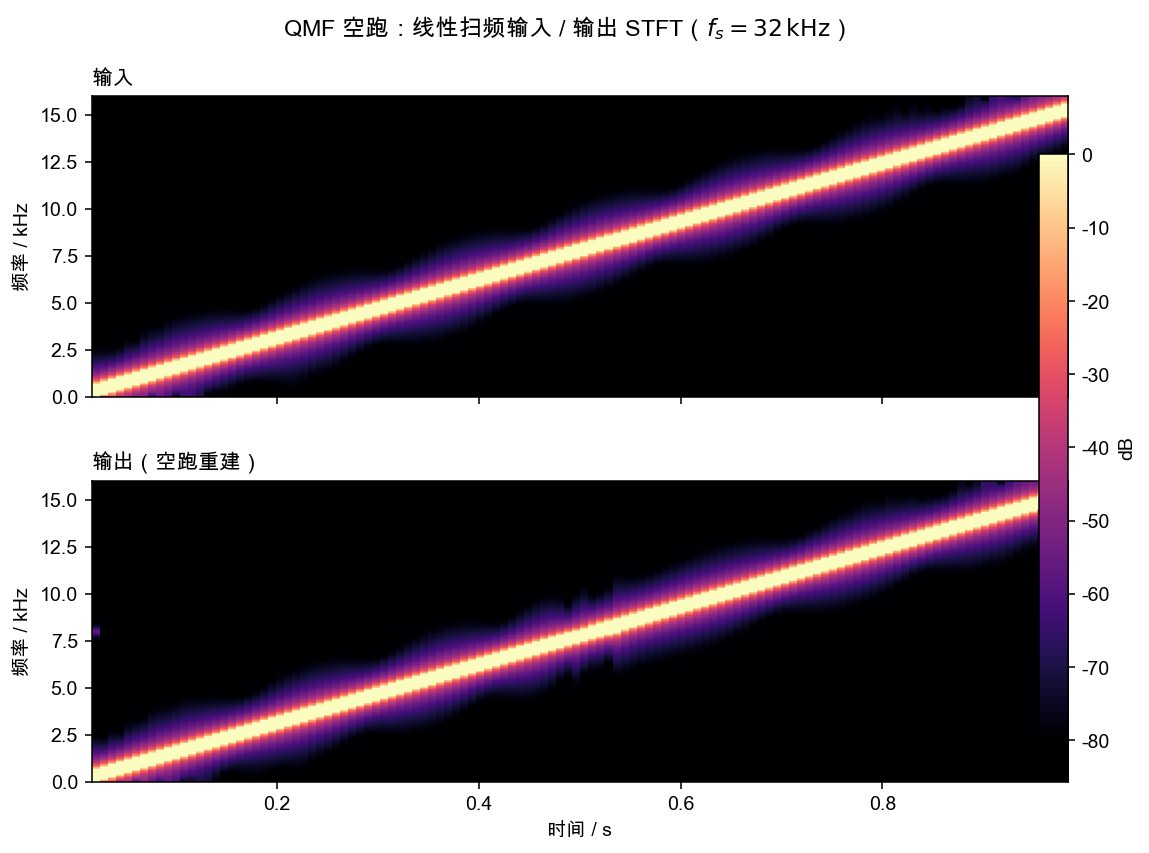
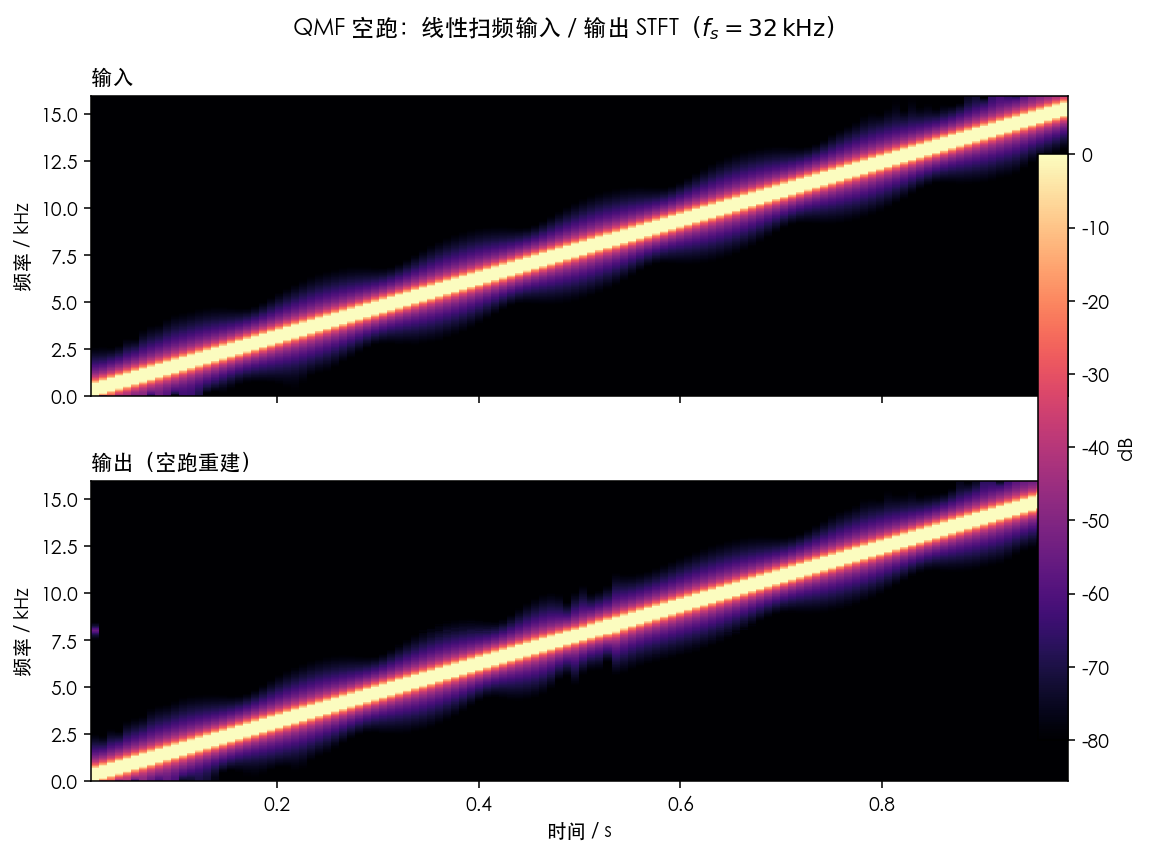
feat(qmf): update qmf doc and sim script

diff --git a/sim/qmf/plot_chirp_stft.py b/sim/qmf/plot_chirp_stft.py
@@ -1,7 +1,8 @@
 #!/usr/bin/env python3
-"""STFT of the linear-chirp empty run written by qmf_chirp."""
+"""Build qmf_chirp, run the linear-chirp empty reconstruction, plot the STFT."""
 
 import argparse
+import subprocess
 from pathlib import Path
 
 import matplotlib
@@ -34,23 +35,39 @@ def stft_db(x: np.ndarray) -> tuple[np.ndarray, np.ndarray, np.ndarray]:
     return spec_db, freqs, times
 
 
+def build_and_run(root: Path, out_dir: Path) -> None:
+    build_dir = root / "output" / "qmf"
+    subprocess.check_call(
+        [
+            "cmake",
+            "-S",
+            str(root),
+            "-B",
+            str(build_dir),
+            "-DCMAKE_BUILD_TYPE=Release",
+        ]
+    )
+    subprocess.check_call(
+        ["cmake", "--build", str(build_dir), "--target", "qmf_chirp"]
+    )
+    out_dir.mkdir(parents=True, exist_ok=True)
+    subprocess.check_call([str(build_dir / "qmf_chirp"), str(out_dir)])
+
+
 def main() -> None:
     root = Path(__file__).resolve().parents[2]
     parser = argparse.ArgumentParser()
-    parser.add_argument(
-        "--in-dir",
-        type=Path,
-        default=root / "output" / "sim" / "qmf",
-    )
     parser.add_argument(
         "--out",
         type=Path,
         default=root / "doc" / "image" / "qmf_fig_chirp_stft.png",
     )
     args = parser.parse_args()
+    in_dir = root / "output" / "sim" / "qmf"
+    build_and_run(root, in_dir)
 
-    x = np.fromfile(args.in_dir / "in.f32", dtype=np.float32).astype(np.float64)
-    y = np.fromfile(args.in_dir / "out.f32", dtype=np.float32).astype(np.float64)
+    x = np.fromfile(in_dir / "in.f32", dtype=np.float32).astype(np.float64)
+    y = np.fromfile(in_dir / "out.f32", dtype=np.float32).astype(np.float64)
     if x.shape != y.shape or len(x) < N_FFT:
         raise SystemExit(f"bad lengths in={len(x)} out={len(y)}")
 
@@ -83,7 +100,7 @@ def main() -> None:
     fig.subplots_adjust(hspace=0.28, right=0.90, top=0.90)
     args.out.parent.mkdir(parents=True, exist_ok=True)
     fig.savefig(args.out, dpi=140, bbox_inches="tight")
-    copy = args.in_dir / "chirp_stft.png"
+    copy = in_dir / "chirp_stft.png"
     fig.savefig(copy, dpi=140, bbox_inches="tight")
     print("saved", args.out)
     print("saved", copy)

diff --git a/doc/webrtc_3a.md b/doc/webrtc_3a.md
@@ -1,28 +1,12 @@
 # <div align="center">webrtc_3a.md</div>
 
-之前自以为掌握了 webrtc 的 aec，ns 算法便掌握了语音前端的精髓，但实际上还远远不够，算法工程师应该要掌握整个音频链路，因此在此处重新整理整个链路以及其上的所有算法和技巧。本工程分析采用的算法版本是 aec3，ns，agc2，采样率为 48 khz 以获得尽可能多的算法信息。
+只要是在音频算法领域工作，webrtc 就是绝对不容错过的绝佳学习样本。之前自以为掌握了 webrtc 的 aec，ns 算法便掌握了语音前端的精髓，但实际上还远远不够，算法工程师应该要掌握整个音频链路，尤其是那些工程化的有趣技巧。因此在此处重新整理整个链路以及其上的所有算法和技巧。本工程分析采用的算法版本是 aec3，ns，agc2，采样率为 48 khz 以获得尽可能多的算法信息。
 
 ---
 
 ## 1. 双工总览
 
-```
-近端讲话人                          远端讲话人
-    │                                    │
-    ▼ mic                                ▼
-[采集 ADC]                          [对端下行 RTP]
-    │                                    │
-    ▼                                    ▼
-┌────────────────────────────────────────────────────────────┐
-│  近端设备                                                  │
-│                                                            │
-│  capture ──► APM(3A…) ──► Opus encode ──► RTP ──► 网络     │
-│                 ▲                                          │
-│                 │ reverse / render 参考（扬声器将播内容）  │
-│  网络 RTP ──► NetEQ ──► Opus decode ──► 扬声器 DAC         │
-│                                                            │
-└────────────────────────────────────────────────────────────┘
-```
+![发送走 capture；接收在 GetAudio 内解码，reverse 取将播 PCM](image/apm_fig_duplex.png)
 
 两条流必须分清：
 
@@ -186,7 +170,7 @@ ProcessCapture (采集线程)  每个 4 ms block：
 |--|--|
 | **输入** | 当前 capture block：`float[C][3][64]`；render 历史队列 |
 | **对齐输出** | 与 capture 同时刻对齐的 render block（及频谱缓冲），供 Subtractor 使用 |
-| **典型时延范围** | 手机/蓝牙常见数十～两百 ms；估计不稳则 ERLE 上不去 |
+| **时延** | 对齐不稳时 ERLE 上不去 |
 
 #### 2.7.4 线性回声消去 `Subtractor`（自适应滤波）
 
@@ -196,7 +180,6 @@ ProcessCapture (采集线程)  每个 4 ms block：
 | **输入** | 对齐后的 render 谱 + 近端 capture block / 谱 |
 | **输出** | 回声估计 $\hat y$；误差 $e = d - \hat y$（时域/频域）；可写出 linear output |
 | **更新** | 按 ERLE / 双讲 / 饱和等状态调节步长；双讲时降速或冻结，防把近端语音学进滤波器 |
-| **能力** | 线性部分常可抹 20～40 dB 回声；扬声器非线性、裁剪残留留给下一步 |
 
 主文件：`subtractor.cc`、`adaptive_fir_filter*.cc`。
 
@@ -277,12 +260,9 @@ ProcessCapture (采集线程)  每个 4 ms block：
 
 ## 3. 反向流：AEC 参考（render / reverse）
 
-```
-NetEQ/解码 PCM ──► 扬声器 DAC
-              └──► APM::ProcessReverseStream / AnalyzeReverseStream
-                        └─ Split（若尚未分带）
-                        └─ AEC3::AnalyzeRender → render 队列（§2.7.2）
-```
+参考是 §1 里那块 **10 ms PCM**：`GetAudio` 的出口，即将送进扬声器的同一缓冲。进 APM 之后：
+
+`ProcessReverseStream` / `AnalyzeReverseStream` → Split（若尚未分带）→ `AEC3::AnalyzeRender` → render 队列（§2.7.2）。详见 §5。
 
 | 步骤 | 输入 | 输出 |
 |------|------|------|
@@ -316,31 +296,13 @@ NetEQ/解码 PCM ──► 扬声器 DAC
 
 ---
 
-## 5. 接收侧：解包 → NetEQ → 解码 → 播放
+## 5. 接收侧：GetAudio 解出 PCM 再播放
 
-### 5.1 收包 / NetEQ
+![GetAudio 在 NetEQ 内解码，出口 PCM 同时进扬声器和 APM](image/apm_fig_decode.png)
 
-| | |
-|--|--|
-| **输入** | 网络 RTP（抖动、乱序、丢包） |
-| **输出** | 按播放时钟拉取的 **10 ms** 解码前/后音频（NetEQ `GetAudio`） |
-| **职责** | 抖动缓冲、丢包隐藏（PLC）、配合 FEC/NACK、可参与 A/V sync |
+`InsertPacket` 把 RTP 载荷放进 NetEQ 的抖动缓冲。播放线程每 10 ms 调用 `GetAudio`：有包时在这次调用里做 Opus 解码，丢包时走 PLC。返回的 `AudioFrame` 是 48 kHz PCM（单声道 480 点）。这份 PCM 送扬声器，同一缓冲交给 `ProcessReverseStream`，作为 §3 的 reverse 参考。
 
-### 5.2 Opus 解码
-
-| | |
-|--|--|
-| **输入** | NetEQ 给出的 Opus 帧（或 PLC 所需状态） |
-| **输出** | 48 kHz PCM，块长与播放设备拉取一致（常 10 ms） |
-
-### 5.3 渲染
-
-| | |
-|--|--|
-| **输入** | 解码 PCM |
-| **输出** | 经 OS 音频图 → DAC → 扬声器；**同时**复制为 §3 的 reverse 参考 |
-
-接收侧**不再跑**捕获 3A（远端已在对端做过）；本端只做 NetEQ + 解码 + 播放，以及为本地 AEC 提供参考。
+NetEQ 同时做抖动缓冲、丢包隐藏，配合 FEC/NACK，也可参与音画同步。接收侧不再跑捕获 3A（远端已在对端处理过）；本端取流、播放，并为本地 AEC 提供参考。
 
 ---
 
@@ -367,7 +329,7 @@ NetEQ/解码 PCM ──► 扬声器 DAC
 1. **顺序不能乱**：高通 → AEC → NS → AGC。NS 在 AEC 前会把回声学进噪声模型；AGC 在 AEC 前会改回声路径增益。  
 2. **APM 10 ms vs Opus 20 ms**：处理按 10 ms；编码常按 20 ms 组帧，多 10 ms 组帧延迟。  
 3. **reverse 时延**：蓝牙 / USB 声卡缓冲变化大，`stream_delay_ms` 不准时双讲与残余回声都会变差。  
-4. **口到耳**：采集 + APM + Opus20ms + 网络 + NetEQ + 解码播放；NetEQ 缓冲随网络变长，是通话「发闷/变慢」的主因之一。
+4. **口到耳**：采集 + APM + Opus 20 ms + 网络 + NetEQ 取流播放；NetEQ 缓冲随网络变长，是通话「发闷/变慢」的主因之一。
 
 ---
 

diff --git a/doc/qmf.md b/doc/qmf.md
@@ -1,6 +1,6 @@
 # QMF 二分频 webrtc 版本
 
-实际生产中总会存在分频子带处理需求，而最为常用的场景就是二分频，二分频有着最为完美的滤波器组，也就是 QMF 滤波器组。
+实际生产中总会存在分频子带处理需求，而最为常用的场景就是二分频，二分频有着最为完美的滤波器组，也就是 QMF 滤波器组。而 webrtc 的前端音频链路上面第一个比较有趣的处理就是 QMF 滤波器组。
 
 **全文符号表**
 
@@ -500,7 +500,7 @@ $$
 
 ## 3. 仿真
 
-码仓为https://github.com/liang-nian/webrtc_3a.git。
+码仓为https://github.com/liang-nian/webrtc_3a.git，实际上就是摘取的 webrtc 代码做仿真，可以直接去看 webrtc 的源码。
 
 ### 3.1 函数对应的公式
 

diff --git a/README.md b/README.md
@@ -1,0 +1,13 @@
+# webrtc_3a
+
+WebRTC 音频链路的笔记和仿真。笔记在 `doc/`，两带 QMF 在 `qmf/`，仿真脚本在 `sim/qmf/`。脚本会自己用 CMake 编译，再跑扫频、出图。
+
+依赖：CMake 3.16、C/C++ 编译器、Python 3、NumPy、Matplotlib。在仓库根目录执行。
+
+## 仿真
+
+两带 QMF 线性扫频空跑。32 kHz、1 s、幅度 0.8，频率从 100 Hz 升到 15.5 kHz。按 10 ms 分帧调用 `WebRtcSpl_AnalysisQMF`，子带原样送回，再 `WebRtcSpl_SynthesisQMF`。笔记见 `doc/qmf.md`。输入输出写到 `output/sim/qmf/in.f32`、`out.f32`，图写到 `doc/image/qmf_fig_chirp_stft.png` 和 `output/sim/qmf/chirp_stft.png`，可执行文件在 `output/qmf/`。
+
+```bash
+python3 sim/qmf/plot_chirp_stft.py
+```
